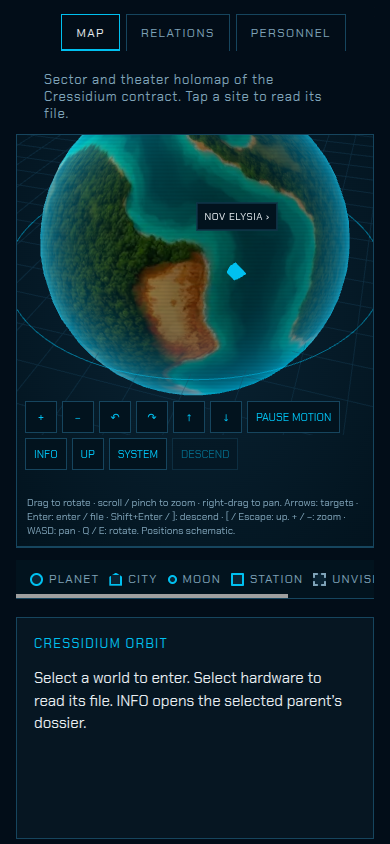
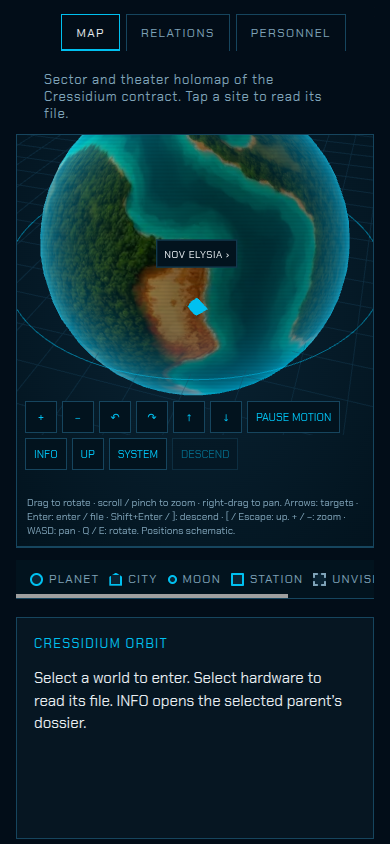
holomap(#29): anchor Nov Elysia on land-side shoreline

Changed region(s): [[0.4, 0.2156, 0.7077, 0.3697]]

diff --git a/holomap-view.js b/holomap-view.js
@@ -9,7 +9,10 @@
   if(v==='cressidium:orbit'){
    s.bodies=s.bodies.filter(b=>b.id!=='elysia');const rio=U.scene3d('elysia',opts).bodies.find(b=>b.id==='rio');rio.pos=[-1.35,.35,-1.3];rio.r=.3;rio.orbit={parent:'cressidium',radius:Math.hypot(rio.pos[0],rio.pos[2]),phase:Math.atan2(rio.pos[2],rio.pos[0]),period:260};s.bodies.push(rio);s.sub='CRESSIDIUM · ORBIT';s.aria='Cressidium orbit. Cressidium, Pell, Kessen Relay and UNS Rio Grande. Select Cressidium to view its surface. Hardware positions schematic.';
   }else if(v==='cressidium'){
-   s.mode='surface';s.bodies=s.bodies.filter(b=>b.id==='cressidium'||b.id==='elysia');const g=s.bodies[0],pin=s.bodies[1];pin.pos=[g.r*.55,g.r*.25,g.r*Math.sqrt(1-.55**2-.25**2)];pin.surface='cressidium';pin.r=.07;delete pin.orbit;s.sub='CRESSIDIUM · SURFACE';s.aria='Cressidium surface globe. Select Nov Elysia to enter the city. Pin position schematic, not surveyed.';
+   s.mode='surface';s.bodies=s.bodies.filter(b=>b.id==='cressidium'||b.id==='elysia');const g=s.bodies[0],pin=s.bodies[1];// Presentation-only shoreline anchor in the prepared 1024×512 map, measured from top left.
+   // SphereGeometry uses x=-cos(phi), z=sin(phi); texture upload flips image Y.
+   const u=316/1024,v=235/512,phi=2*Math.PI*u,theta=Math.PI*v;
+   pin.pos=[-g.r*Math.cos(phi)*Math.sin(theta),g.r*Math.cos(theta),g.r*Math.sin(phi)*Math.sin(theta)];pin.surface='cressidium';pin.r=.07;delete pin.orbit;s.sub='CRESSIDIUM · SURFACE';s.aria='Cressidium surface globe. Select Nov Elysia to enter the city. Pin position schematic, not surveyed.';
   }
   s.bodies.forEach(b=>b.descend=!!action(v,b.id).view);
   s.orbits=s.bodies.filter(b=>b.orbit&&!b.orbit.surface).map(b=>({parent:b.orbit.parent,child:b.id,radius:b.orbit.radius,y:b.pos[1]}));
